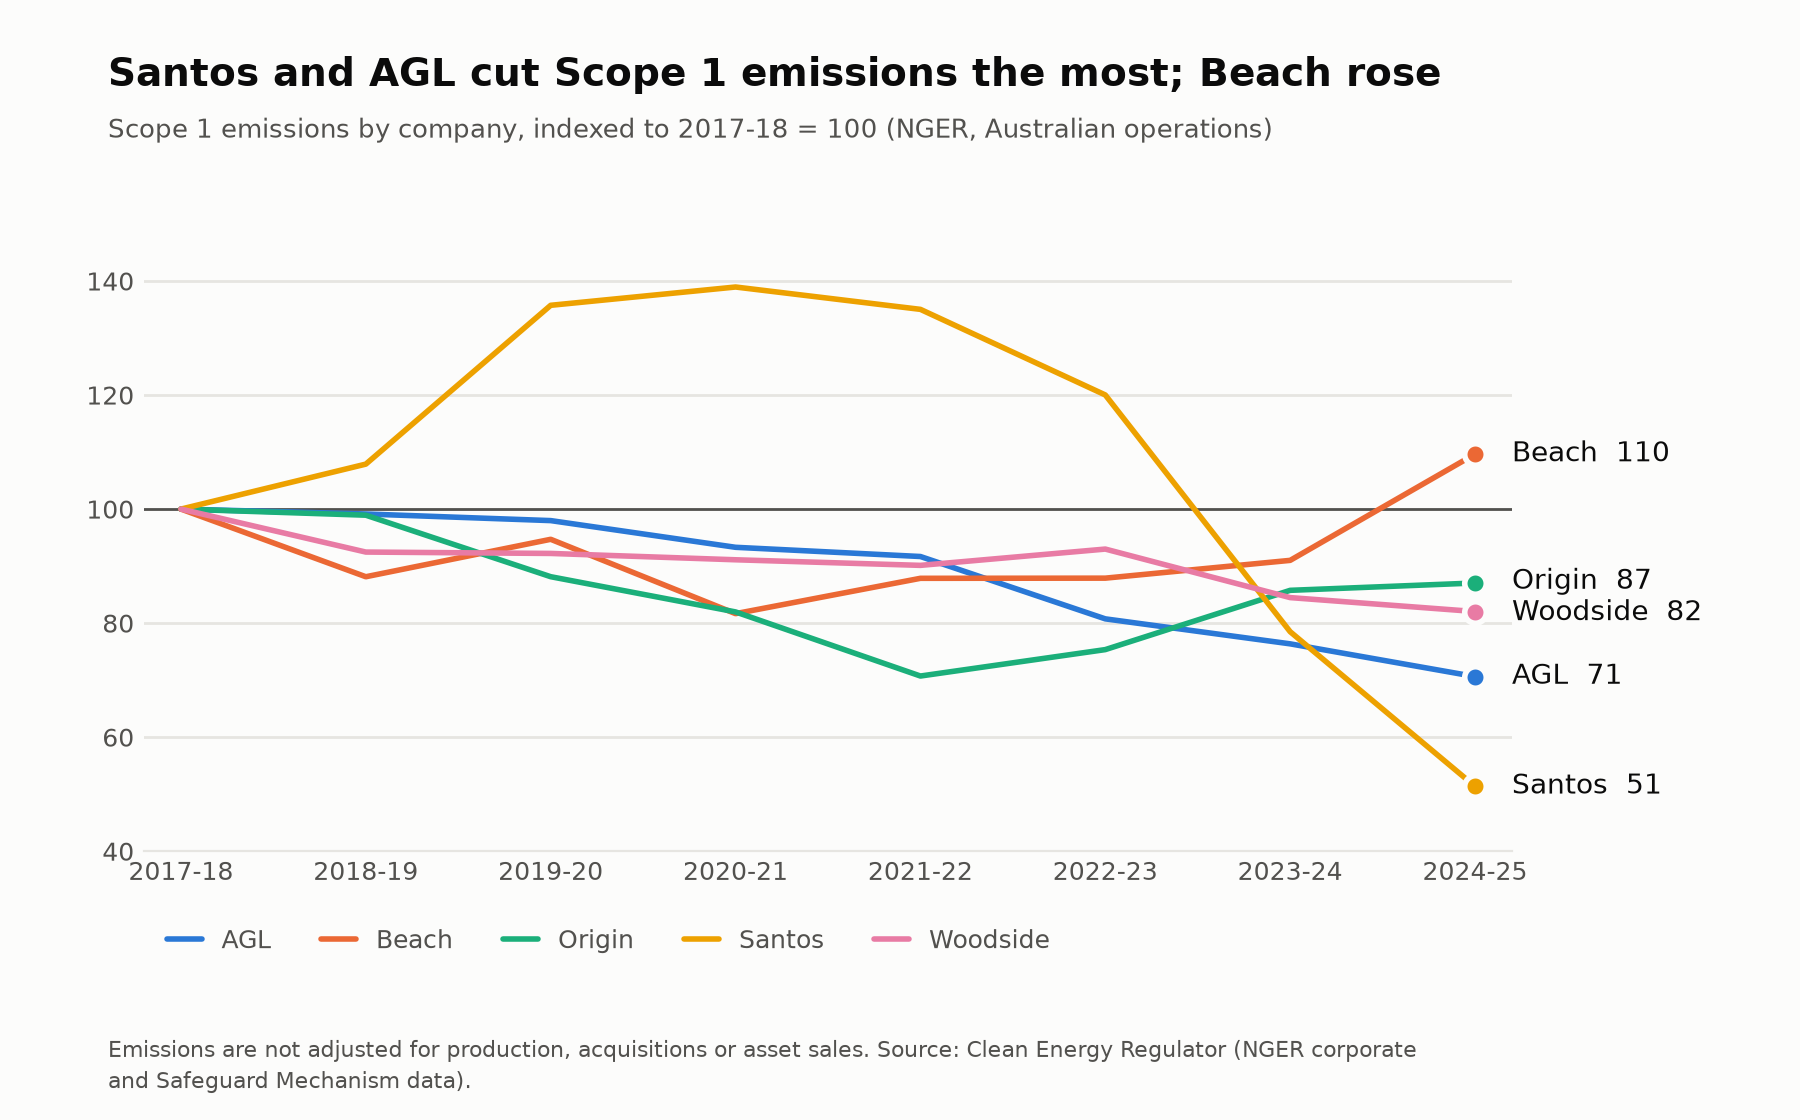
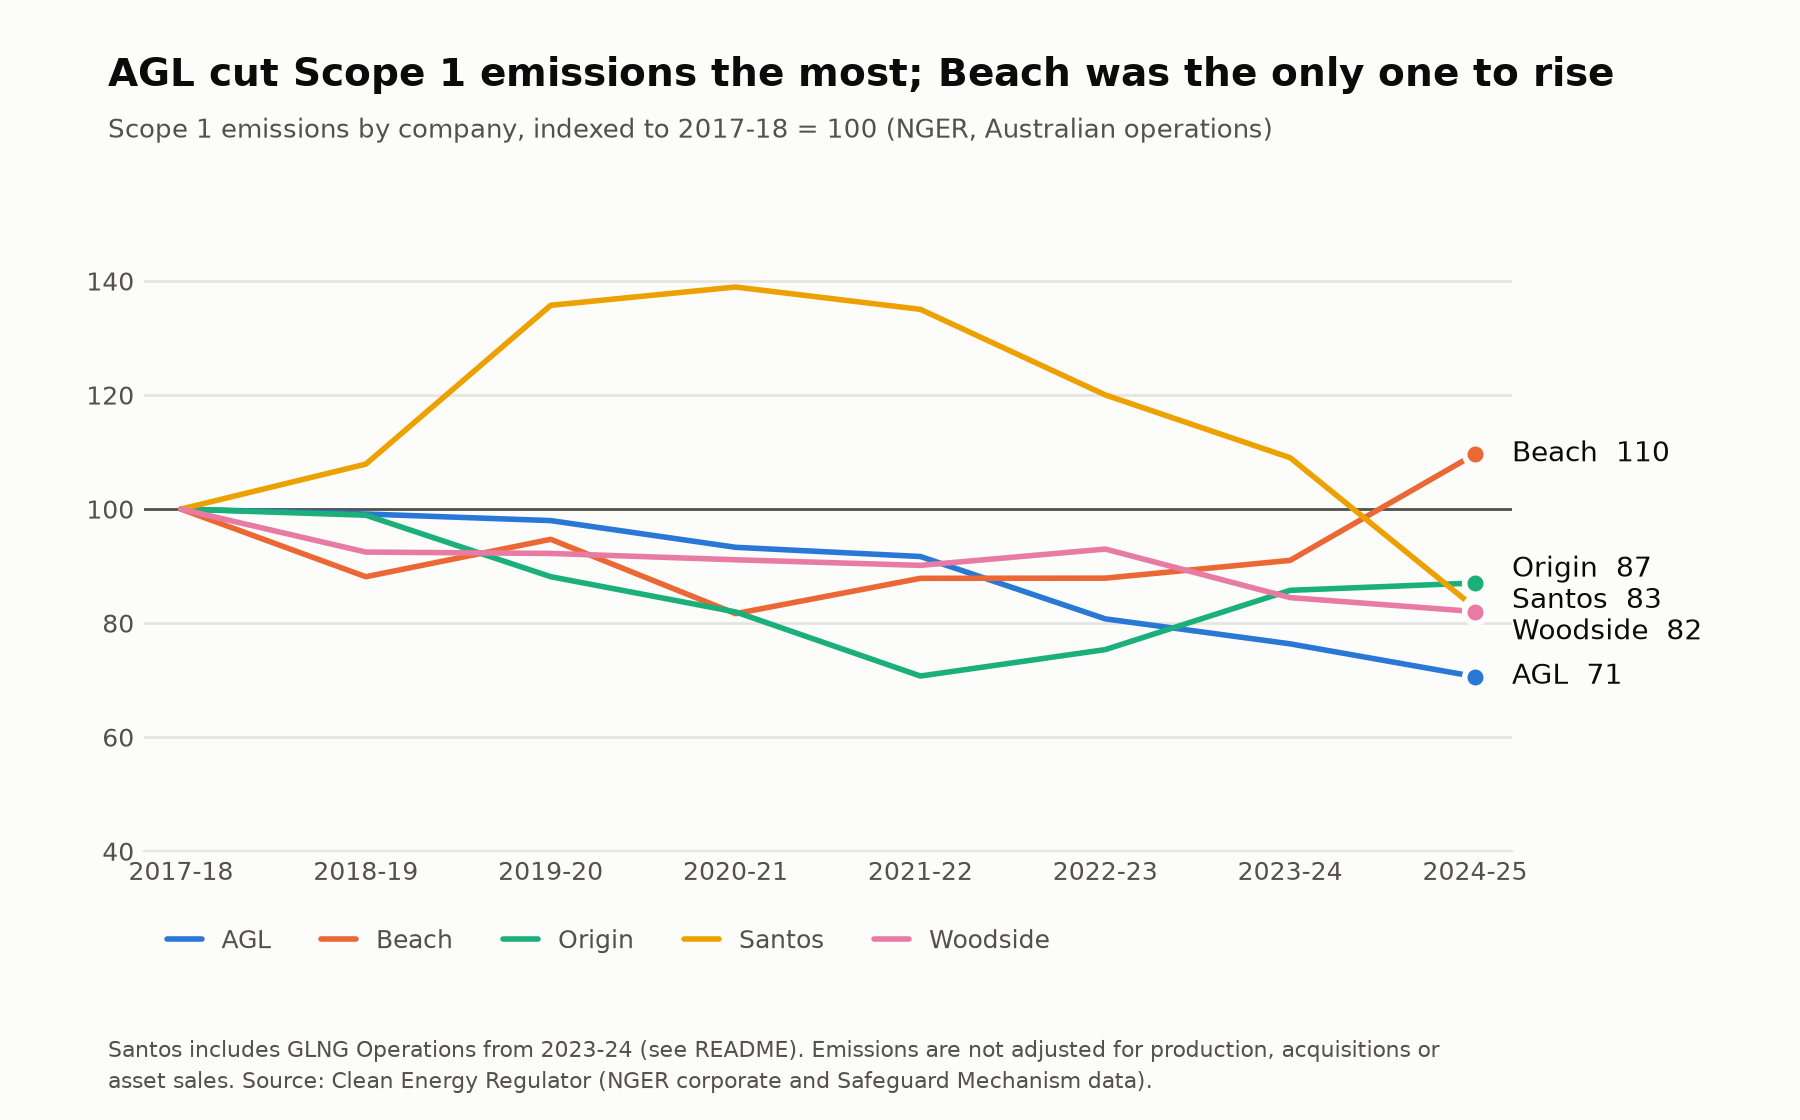
Fix Santos series: include GLNG Operations, add sensitivity and checks
From 2023-24 the Curtis Island GLNG plant (about 1.6 Mt/yr) is reported by GLNG
Operations Pty Ltd (30%-owned JV) instead of Santos Limited. Matching on "Santos"
alone made Santos's fall look larger than it is (-49% since 2017-18; corrected
to -17%, or -27% excluding the plant). Combine the entities in the Santos group,
add a sensitivity output, retitle figure 1, and rewrite the README with the
corrected numbers and the results of the unverified-claim checks (Santos year
basis, CCS treatment, grid-connected generators).

diff --git a/src/03_charts.py b/src/03_charts.py
@@ -77,7 +77,7 @@ def chart1_index(corp):
 
     fig, ax = plt.subplots(figsize=(9, 5.6))
     fig.subplots_adjust(left=0.08, right=0.84, top=0.80, bottom=0.24)
-    setup(fig, ax, "Santos and AGL cut Scope 1 emissions the most; Beach rose",
+    setup(fig, ax, "AGL cut Scope 1 emissions the most; Beach was the only one to rise",
           "Scope 1 emissions by company, indexed to 2017-18 = 100 (NGER, Australian operations)")
     x = range(len(idx))
     ax.axhline(100, color=INK2, linewidth=1, zorder=1)
@@ -93,7 +93,7 @@ def chart1_index(corp):
     ax.set_yticks([40, 60, 80, 100, 120, 140])
     ax.set_xlim(-0.2, len(idx) - 1 + 0.2)
     ax.legend(loc="lower left", frameon=False, fontsize=9, labelcolor=INK2, ncol=5, bbox_to_anchor=(0, -0.2), handlelength=1.4)
-    footer(fig, "Emissions are not adjusted for production, acquisitions or asset sales.")
+    footer(fig, "Santos includes GLNG Operations from 2023-24 (see README). Emissions are not adjusted for production, acquisitions or asset sales.")
     fig.savefig(FIG / "fig1_scope1_index.png", dpi=200, facecolor=SURFACE)
     plt.close(fig)
     return idx
@@ -159,6 +159,25 @@ def chart3_credits(sg):
     return p
 
 
+def santos_sensitivity(corp):
+    """Santos Scope 1 with and without the Curtis Island GLNG plant, in every year.
+
+    From 2023-24 the plant is reported by GLNG Operations Pty Ltd (30% owned), so the
+    two treatments give different trends. Facility-level covered emissions for the
+    plant (Safeguard data) are used as a proxy for its NGER Scope 1.
+    """
+    fac = pd.read_csv(PROC / "facility_panel.csv")
+    glng = fac[(fac.company == "Santos") & fac.facility.str.contains("GLNG", case=False)].groupby("year").covered.sum()
+    incl = corp[corp.company == "Santos"].set_index("year").scope1_t
+    excl = incl - glng.reindex(incl.index).fillna(0)
+    out = pd.DataFrame({"incl_glng_mt": incl / 1e6, "excl_glng_mt": excl / 1e6}).round(2)
+    out.to_csv(FIG / "santos_sensitivity.csv")
+    for base in ("2017-18", "2020-21"):
+        print(f"Santos {base} -> 2024-25: incl GLNG {incl['2024-25'] / incl[base] - 1:+.0%}, "
+              f"excl GLNG {excl['2024-25'] / excl[base] - 1:+.0%}")
+    return out
+
+
 def main():
     FIG.mkdir(exist_ok=True)
     corp = pd.read_csv(PROC / "corporate_panel.csv")
@@ -167,6 +186,7 @@ def main():
     idx = chart1_index(corp)
     ratio = chart2_baseline(sg)
     credits = chart3_credits(sg)
+    santos_sensitivity(corp)
 
     # The table behind the charts, for the README and for readers who want numbers.
     t1 = (corp.pivot(index="year", columns="company", values="scope1_t") / 1e6).round(2)

diff --git a/src/01_corporate_panel.py b/src/01_corporate_panel.py
@@ -19,7 +19,11 @@ OUT = ROOT / "data" / "processed"
 # Regex on the upper-cased organisation name -> short company label.
 COMPANIES = {
     "Woodside": r"^WOODSIDE",
-    "Santos": r"^SANTOS\b",
+    # From 2023-24 the Curtis Island GLNG plant (about 1.6 Mt a year) is reported by
+    # GLNG Operations Pty Ltd, a 30%-owned joint venture, not by Santos Limited. Before
+    # then Santos Limited reported the plant itself. Including GLNG Operations keeps
+    # the Santos series like-for-like. See the README for the alternative.
+    "Santos": r"^(SANTOS\b|GLNG OPERATIONS\b)",
     "Origin": r"^ORIGIN ENERGY\b",
     "AGL": r"^AGL ENERGY\b",
     "Beach": r"^BEACH ENERGY\b",
@@ -75,10 +79,16 @@ def main():
     print("Matched names (check nothing is missing or wrongly included):")
     print(panel.groupby(["company", "name"]).year.agg(["count", "min", "max"]).to_string())
 
-    # If a company has two matching rows in one year, flag it rather than guess.
+    # Where a group reports through more than one entity in a year (Santos Limited
+    # plus GLNG Operations from 2023-24), add them together and say so.
     dup = panel.groupby(["company", "year"]).size()
     if (dup > 1).any():
-        print("\nWARNING: more than one row for:\n", dup[dup > 1].to_string())
+        print("\nNote: combining several entities into one company-year row for:")
+        print(panel[panel.set_index(["company", "year"]).index.isin(dup[dup > 1].index)]
+              [["company", "year", "name", "scope1_t"]].to_string(index=False))
+    panel = (panel.groupby(["company", "year"], as_index=False)
+             .agg(name=("name", " + ".join), scope1_t=("scope1_t", "sum"),
+                  scope2_t=("scope2_t", "sum"), energy_gj=("energy_gj", "sum")))
 
     panel = panel.sort_values(["company", "year"])
     OUT.mkdir(parents=True, exist_ok=True)

diff --git a/src/02_safeguard_panel.py b/src/02_safeguard_panel.py
@@ -23,7 +23,11 @@ OUT = ROOT / "data" / "processed"
 # Responsible-emitter names start with the group name (subsidiaries included).
 COMPANIES = {
     "Woodside": r"^WOODSIDE",
-    "Santos": r"^SANTOS\b",
+    # From 2023-24 the Curtis Island GLNG plant (about 1.6 Mt a year) is reported by
+    # GLNG Operations Pty Ltd, a 30%-owned joint venture, not by Santos Limited. Before
+    # then Santos Limited reported the plant itself. Including GLNG Operations keeps
+    # the Santos series like-for-like. See the README for the alternative.
+    "Santos": r"^(SANTOS\b|GLNG OPERATIONS\b)",
     "Origin": r"^ORIGIN ENERGY\b",
     "AGL": r"^AGL\b",
     "Beach": r"^BEACH ENERGY\b",

diff --git a/README.md b/README.md
@@ -2,7 +2,7 @@
 
 A comparison of five ASX-listed energy producers (AGL, Beach Energy, Origin, Santos and Woodside) using nine years of Clean Energy Regulator data, 2016-17 to 2024-25.
 
-**Short answer.** On reported Scope 1 emissions, Santos (−49%) and AGL (−29%) cut the most between 2017-18 and 2024-25, Woodside (−18%) and Origin (−13%) cut less, and Beach rose (+10%). The data cannot show how much of each fall is a *real* cut. Part of Santos's fall is carbon capture and storage, and none of the figures is adjusted for production, acquisitions or asset sales. Those limits are set out below, and they matter more than the ranking.
+**Short answer.** On reported Scope 1 emissions, AGL cut the most between 2017-18 and 2024-25 (−29%). Woodside (−18%), Santos (−17%, or −27% if the Curtis Island GLNG plant is excluded) and Origin (−13%) cut less, and Beach rose (+10%). The data cannot show how much of each fall is a *real* cut: none of the figures is adjusted for production, acquisitions or asset sales, and part of Santos's fall is carbon capture and storage. Those limits are set out below, and they matter more than the ranking.
 
 ![Scope 1 emissions indexed to 2017-18](figures/fig1_scope1_index.png)
 
@@ -11,14 +11,14 @@ A comparison of five ASX-listed energy producers (AGL, Beach Energy, Origin, San
 All from the [Clean Energy Regulator](https://cer.gov.au) (files in `data/raw/cer/`):
 
 - **NGER corporate emissions**, 2016-17 to 2024-25: Scope 1 and 2 emissions by controlling corporation, Australian operations, July to June years.
-- **Safeguard Mechanism facility data**, 2016-17 to 2024-25: covered emissions, baselines, and carbon credits surrendered, by facility. The regulator changed the table layout in 2023-24, when the reformed baselines began, so the code harmonises two layouts.
+- **Safeguard Mechanism facility data**, 2016-17 to 2024-25: covered emissions, baselines, and carbon credits surrendered, by facility. The regulator changed the table layout in 2023-24, when the reformed Safeguard Mechanism began (1 July 2023), so the code harmonises two layouts.
 - **Company reports** (annual and climate reports from Woodside, Santos, Origin, AGL and Beach) were used to check the Santos figures. The PDFs are not included in this repository because of their size; they are public on each company's website.
 
 ## Method
 
 1. `src/01_corporate_panel.py` builds a company-by-year table from the NGER files.
 2. `src/02_safeguard_panel.py` builds a facility-by-year table from the Safeguard files and sums it to company level.
-3. `src/03_charts.py` draws the three figures and writes the summary table.
+3. `src/03_charts.py` draws the three figures, the summary table, and the Santos sensitivity check.
 
 ## Results
 
@@ -33,12 +33,14 @@ Scope 1 emissions, Mt CO2-e (NGER):
 | 2020-21 | 40.21 | 0.41 | 14.88 | 7.49 | 9.08 |
 | 2021-22 | 39.51 | 0.44 | 12.84 | 7.28 | 8.99 |
 | 2022-23 | 34.80 | 0.44 | 13.68 | 6.47 | 9.27 |
-| 2023-24 | 32.91 | 0.45 | 15.56 | 4.23 | 8.42 |
-| 2024-25 | 30.44 | 0.54 | 15.80 | 2.77 | 8.18 |
-| **Change since 2017-18** | **−29%** | **+10%** | **−13%** | **−49%** | **−18%** |
+| 2023-24 | 32.91 | 0.45 | 15.56 | 5.88 | 8.42 |
+| 2024-25 | 30.44 | 0.54 | 15.80 | 4.46 | 8.18 |
+| **Change since 2017-18** | **−29%** | **+10%** | **−13%** | **−17%** | **−18%** |
 
-- **AGL** fell steadily every year.
-- **Santos** rose to a peak in 2020-21 (7.49 Mt), then fell by 63% to 2024-25.
+Santos includes GLNG Operations Pty Ltd from 2023-24 (see "Santos and the GLNG plant" below).
+
+- **AGL** fell every year.
+- **Santos** rose to a peak in 2020-21 (7.49 Mt), then fell by 40% to 2024-25.
 - **Origin** reached a low in 2021-22 (12.84 Mt) and has risen each year since.
 - **Beach** is small (about 0.5 Mt) and has no 2016-17 row in the NGER file.
 
@@ -46,23 +48,36 @@ Scope 1 emissions, Mt CO2-e (NGER):
 
 ![Covered emissions as a share of Safeguard baselines](figures/fig2_vs_baseline.png)
 
-Summed across their facilities, Woodside and Beach were above their baselines in both 2023-24 and 2024-25. Santos fell from 104% to 72%.
+Summed across their facilities, Woodside and Beach were above their baselines in both 2023-24 and 2024-25. Santos was slightly above in 2023-24 (102%) and below in 2024-25 (83%).
 
 ![Carbon credit use](figures/fig3_credit_use.png)
 
-Credits surrendered as a share of covered emissions: no credits were surrendered before 2022-23. Since then Woodside's share has risen each year (0% → 8% → 14%). Santos (0% → 10% → 6%) and Beach (14% → 25% → 8%) rose and then fell.
+Credits surrendered as a share of covered emissions: no credits were surrendered before 2022-23. Since then Woodside's share has risen each year (0% → 8% → 14%). Santos (0% → 7% → 5%) and Beach (14% → 25% → 8%) rose and then fell.
+
+## Santos and the GLNG plant
+
+From 2023-24 the Curtis Island GLNG plant (about 1.6 Mt a year) is reported by **GLNG Operations Pty Ltd** instead of Santos Limited, in both the NGER and Safeguard files. Santos's 2025 annual report lists GLNG Operations as a 30%-owned joint venture, not a subsidiary. A name match on "Santos" alone therefore makes Santos look as though it cut about 1.6 Mt in 2023-24 when the plant simply moved to another reporter.
+
+This analysis treats the Santos series like-for-like by adding GLNG Operations to Santos from 2023-24, because Santos Limited reported the plant itself before then. The alternative is to exclude the plant in every year, using its Safeguard covered emissions as a proxy. The two treatments give different trends (`figures/santos_sensitivity.csv`):
+
+| Santos Scope 1 change to 2024-25 | Including GLNG plant | Excluding GLNG plant |
+|---|---|---|
+| Since 2017-18 | −17% | −27% |
+| Since the 2020-21 peak | −40% | −52% |
+
+Either way AGL has the largest fall since 2017-18 (−29%), though under the exclusion treatment the gap to Santos is two percentage points.
 
 ## Limitations
 
-- **No production adjustment.** A company that produces less will look like it is "cutting". Intensity (emissions per unit of output) would be a fairer test and is the main next step. The company reports in `data/raw/reports/` are the likely source.
-- **Acquisitions and asset sales are not adjusted.** Reported totals move when companies buy or sell assets, not only when they cut emissions.
-- **Santos and carbon capture.** Santos's own 2025 annual report states that its emissions are reported after CO2 captured and stored by its Moomba CCS project (1.23 Mt stored in 2025). The three sources I compared all show Santos falling (NGER 7.49 → 2.77 Mt from 2020-21 to 2024-25, Safeguard covered emissions 6.74 → 2.19 Mt, and Santos's own global operated Scope 1, 6.40 → 3.61 Mt from 2021 to 2025), so the direction is not a data artefact. I have not checked whether the regulator's figures net off captured CO2 in the same way as the company report.
-- **Year definitions differ.** NGER years run July to June. Santos's report appears to use calendar years (not confirmed).
+- **No production adjustment.** A company that produces less will look like it is "cutting". Intensity (emissions per unit of output) would be a fairer test and is the main next step. The company reports are the likely source.
+- **Acquisitions and asset sales are not adjusted.** Reported totals move when companies buy or sell assets, not only when they cut emissions. The GLNG change above is an example of a reporting change that looks like a cut.
+- **Santos and carbon capture.** Santos's own 2025 annual report states its emissions are reported after CO2 captured and stored by Moomba CCS (1.23 Mt stored in 2025). Consistent with that, the regulator's Safeguard covered emissions for the Moomba Plant fall from 2.20 Mt (2023-24) to 1.08 Mt (2024-25), about 1.1 Mt, in the period the project began storing CO2. The Clean Energy Regulator also says ACCUs issued to the project are added back to the facility's net emissions to avoid double counting. I did not find the NGER Measurement Determination rule on captured CO2, so that the regulator's figures net off captured CO2 is an inference from these two pieces of evidence, not a confirmed rule.
+- **Year definitions differ.** NGER and Safeguard years run July to June. Santos reports on a calendar year (its report refers to the "financial year ended 31 December 2024"), and says Safeguard obligations are assessed on a different, financial-year basis. Company-report figures are therefore only roughly comparable with the regulator's.
 - **Scope of the regulator's data.** NGER covers Australian operations only, so global emissions (for example Santos in PNG) are not included.
-- **Safeguard coverage is partial.** AGL does not appear in the Safeguard facility tables. The only power stations listed are off-grid ones, and I believe grid-connected generators are outside the scheme, but I have not confirmed that. Only about 4% of Origin's NGER emissions are in Safeguard facilities.
+- **Safeguard coverage is partial.** AGL does not appear in the Safeguard facility tables. The Clean Energy Regulator describes a "sectoral baseline" as "a collective baseline for grid-connected electricity generators", so grid-connected power stations are assessed collectively and not as individual facilities; the only power stations in the facility tables are off-grid. Only about 4% of Origin's NGER emissions are in Safeguard facilities, which is consistent with its power stations being under the same collective baseline, though I have not checked that.
 - **Net totals.** In the pre-2023 layout, facilities on multi-year monitoring periods report "n/a" for baseline and net emissions. Company totals for those are left blank, not summed with missing values.
 - **Company-level baseline ratio.** Figure 2 sums baselines and covered emissions across a company's facilities. The legal obligation applies facility by facility, so a company can be under its total baseline and still owe credits at some facilities.
-- **Names.** Woodside Petroleum became Woodside Energy Group in 2021-22 and is treated as one company. Responsible-emitter names in the Safeguard files include subsidiaries (for example Woodside Burrup, Origin Energy Upstream Operator).
+- **Names.** Woodside Petroleum became Woodside Energy Group in 2021-22 and is treated as one company. Responsible-emitter names in the Safeguard files include subsidiaries (for example Woodside Burrup, Origin Energy Upstream Operator). I searched all names in the NGER and Safeguard files for the five groups and found no other renamed or split entity besides GLNG Operations.
 - **Beach** has no NGER row for 2016-17, so all indexed charts start in 2017-18.
 
 ## Reproduce
@@ -75,4 +90,4 @@ python src/02_safeguard_panel.py
 python src/03_charts.py
 ```
 
-Outputs: `data/processed/` (panels) and `figures/` (charts and `summary_table.csv`).
+Outputs: `data/processed/` (panels) and `figures/` (charts, `summary_table.csv` and `santos_sensitivity.csv`).
